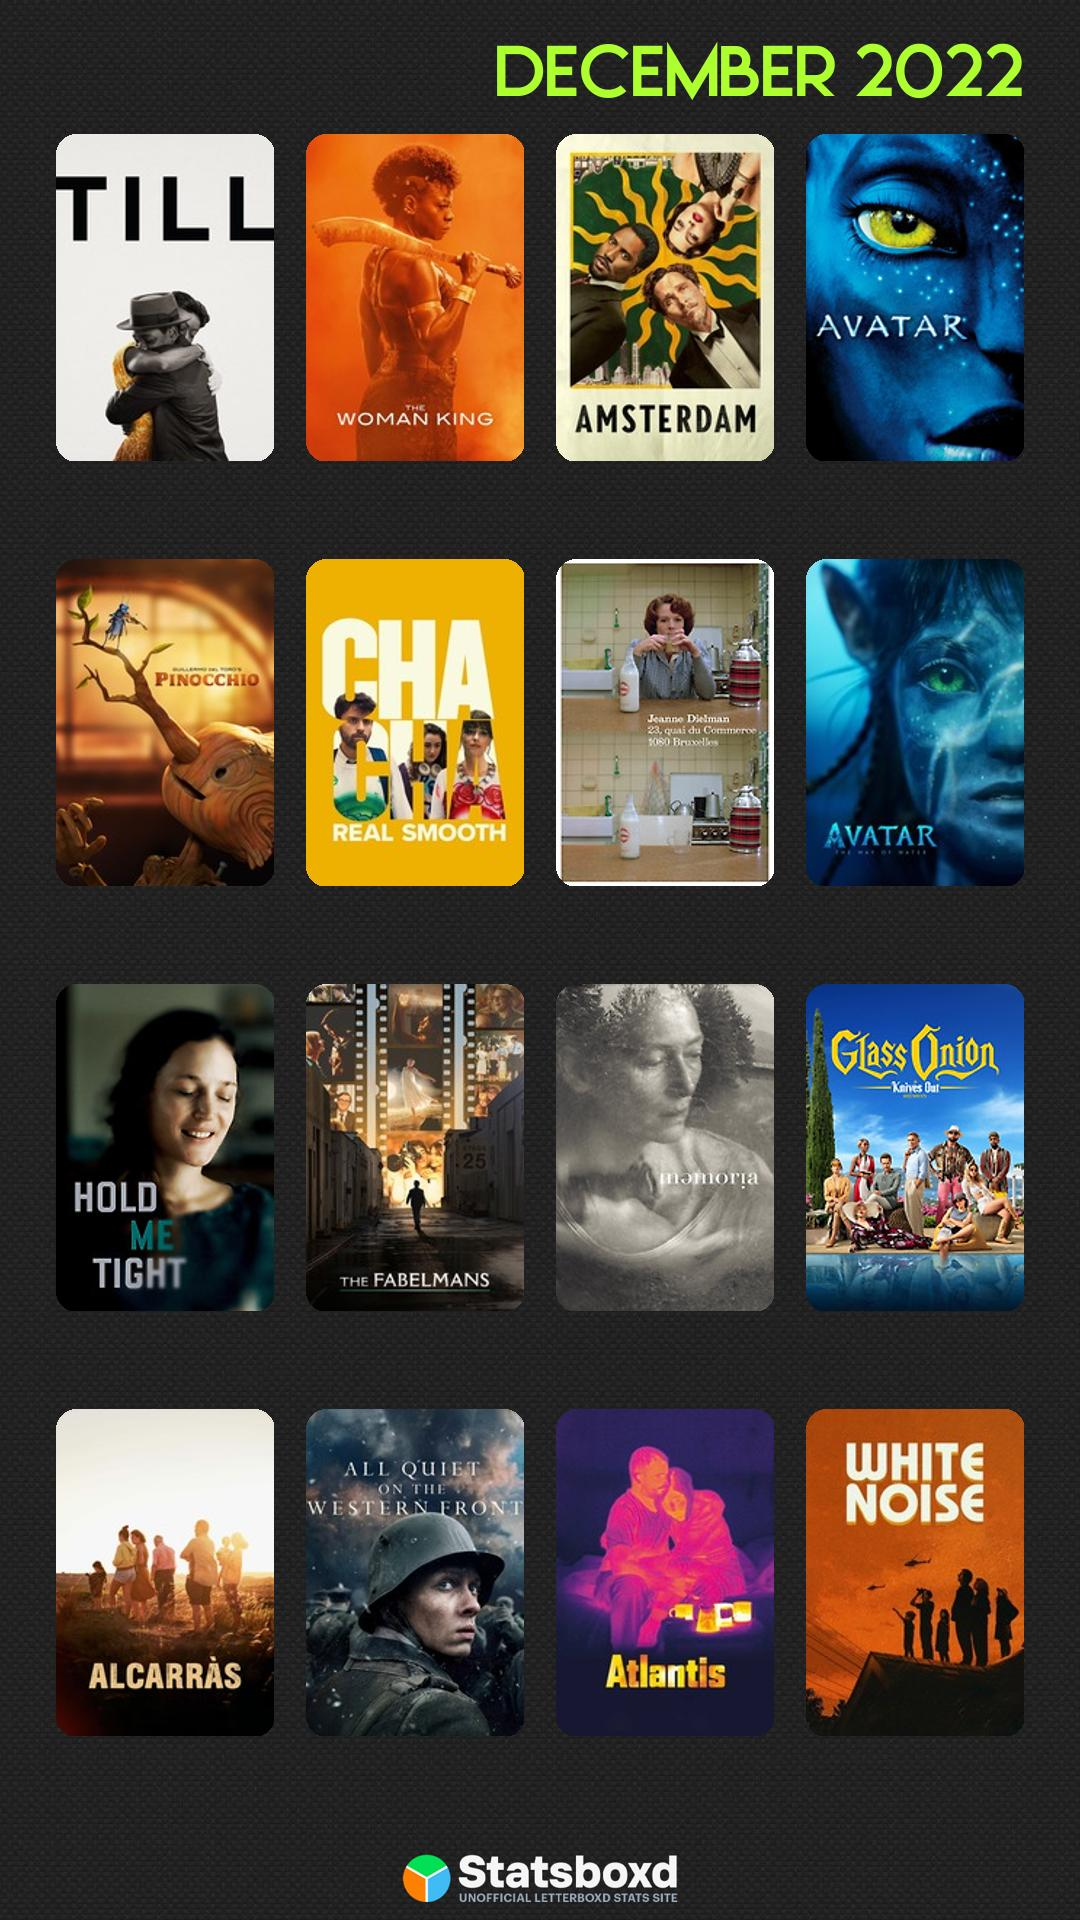
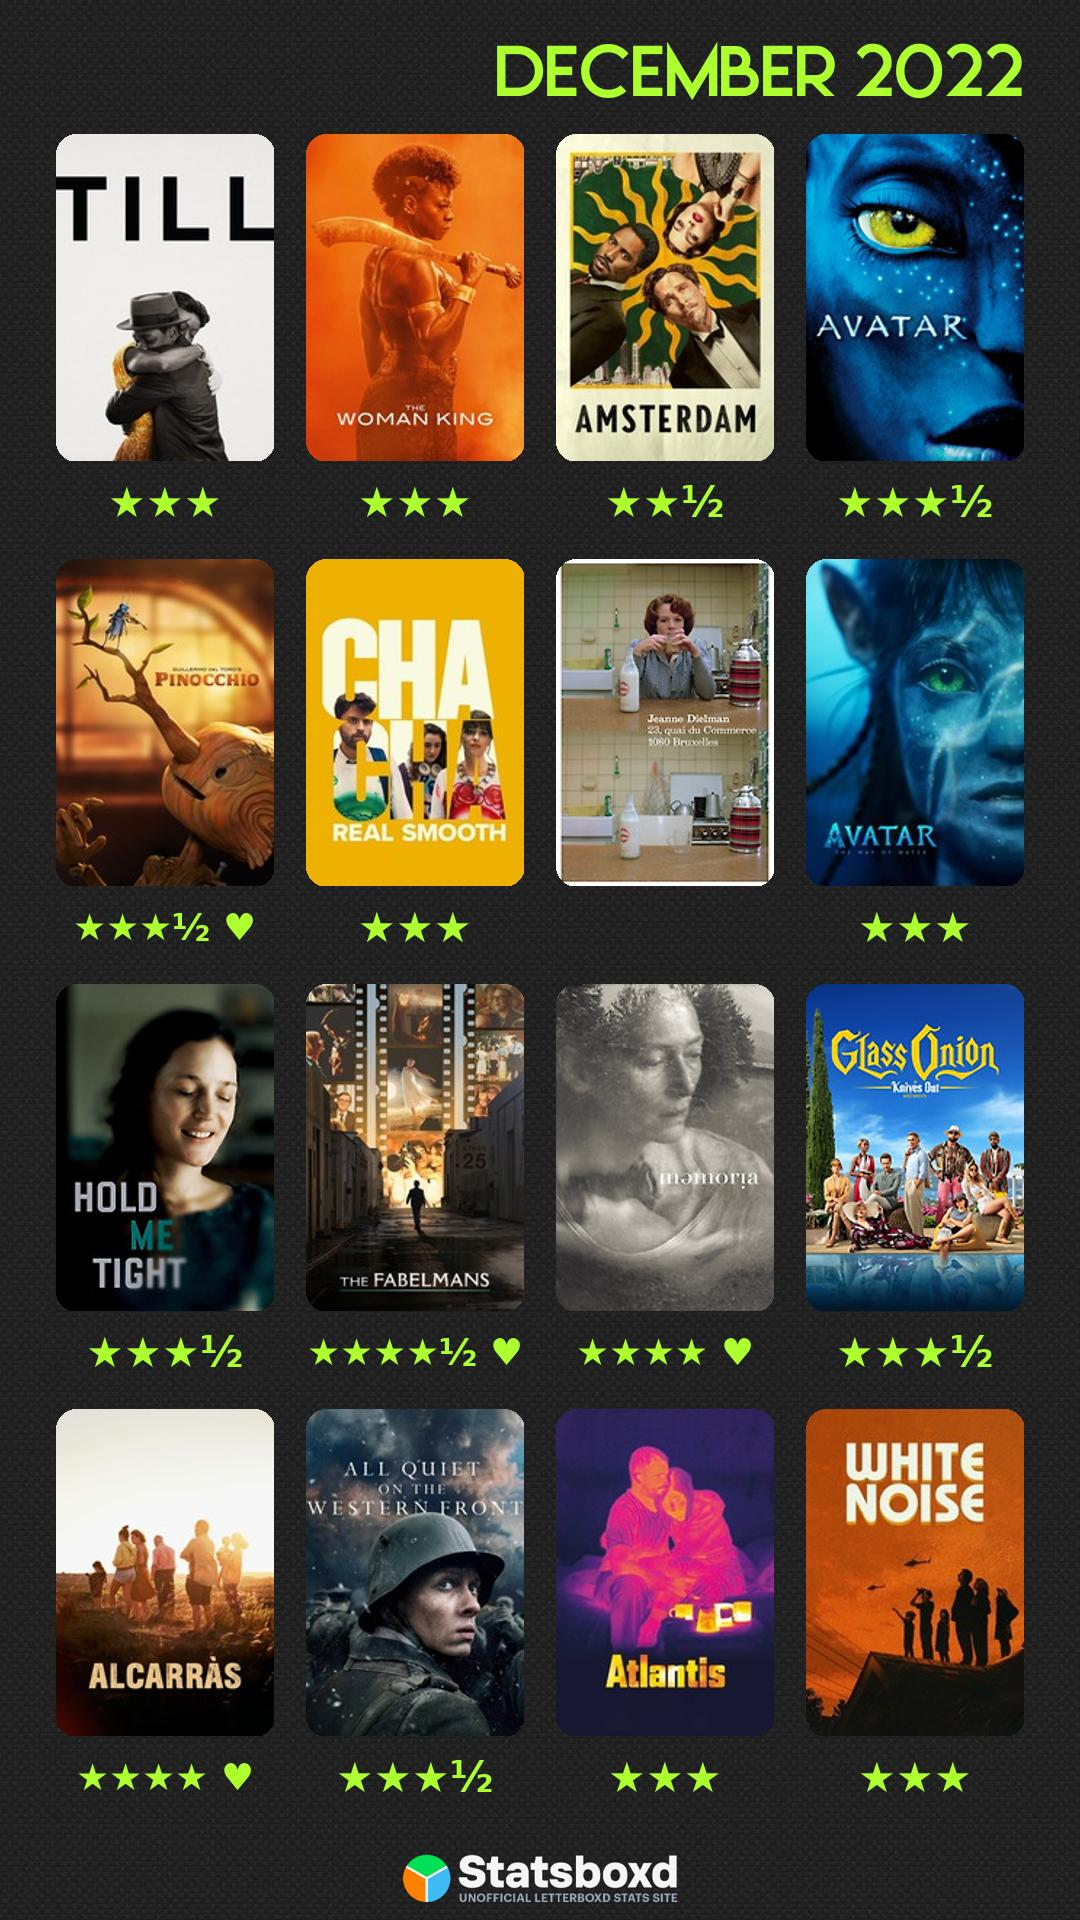
some stuff

diff --git a/utils/collage.py b/utils/collage.py
@@ -41,8 +41,8 @@ def collage(username):
         {'$lookup': {
             'from': 'Film', 'localField': 'diary2.id',
             'foreignField': '_id', 'as': 'info'}},
-        {'$project': {'id': 'diary2.id', 'like': 'diary2.dLike', 'rating': 'diary2.dRating',
-                      'rewatch': 'diary2.rewatch', 'img': {'$first': '$info.images.poster'}}}
+        {'$project': {'id': '$diary2.id', 'like': '$diary2.dLike', 'rating': '$diary2.dRating',
+                      'rewatch': '$diary2.rewatch', 'img': {'$first': '$info.images.poster'}}}
     ])
     films = []
     for x in a:
@@ -117,7 +117,6 @@ def collage(username):
         img = add_corners(img, 20)
         new.paste(img, (x * (length + bordioriz) + bordiestremi + bordifinali, y + bordoalto))
         combined = Image.alpha_composite(combined, new)
-
         if film['like'] or film['rewatch']:
             out = Image.new("RGBA", (length, int(bordivert * 0.5)), (255, 0, 0, 0))
             if __name__ == '__main__':
